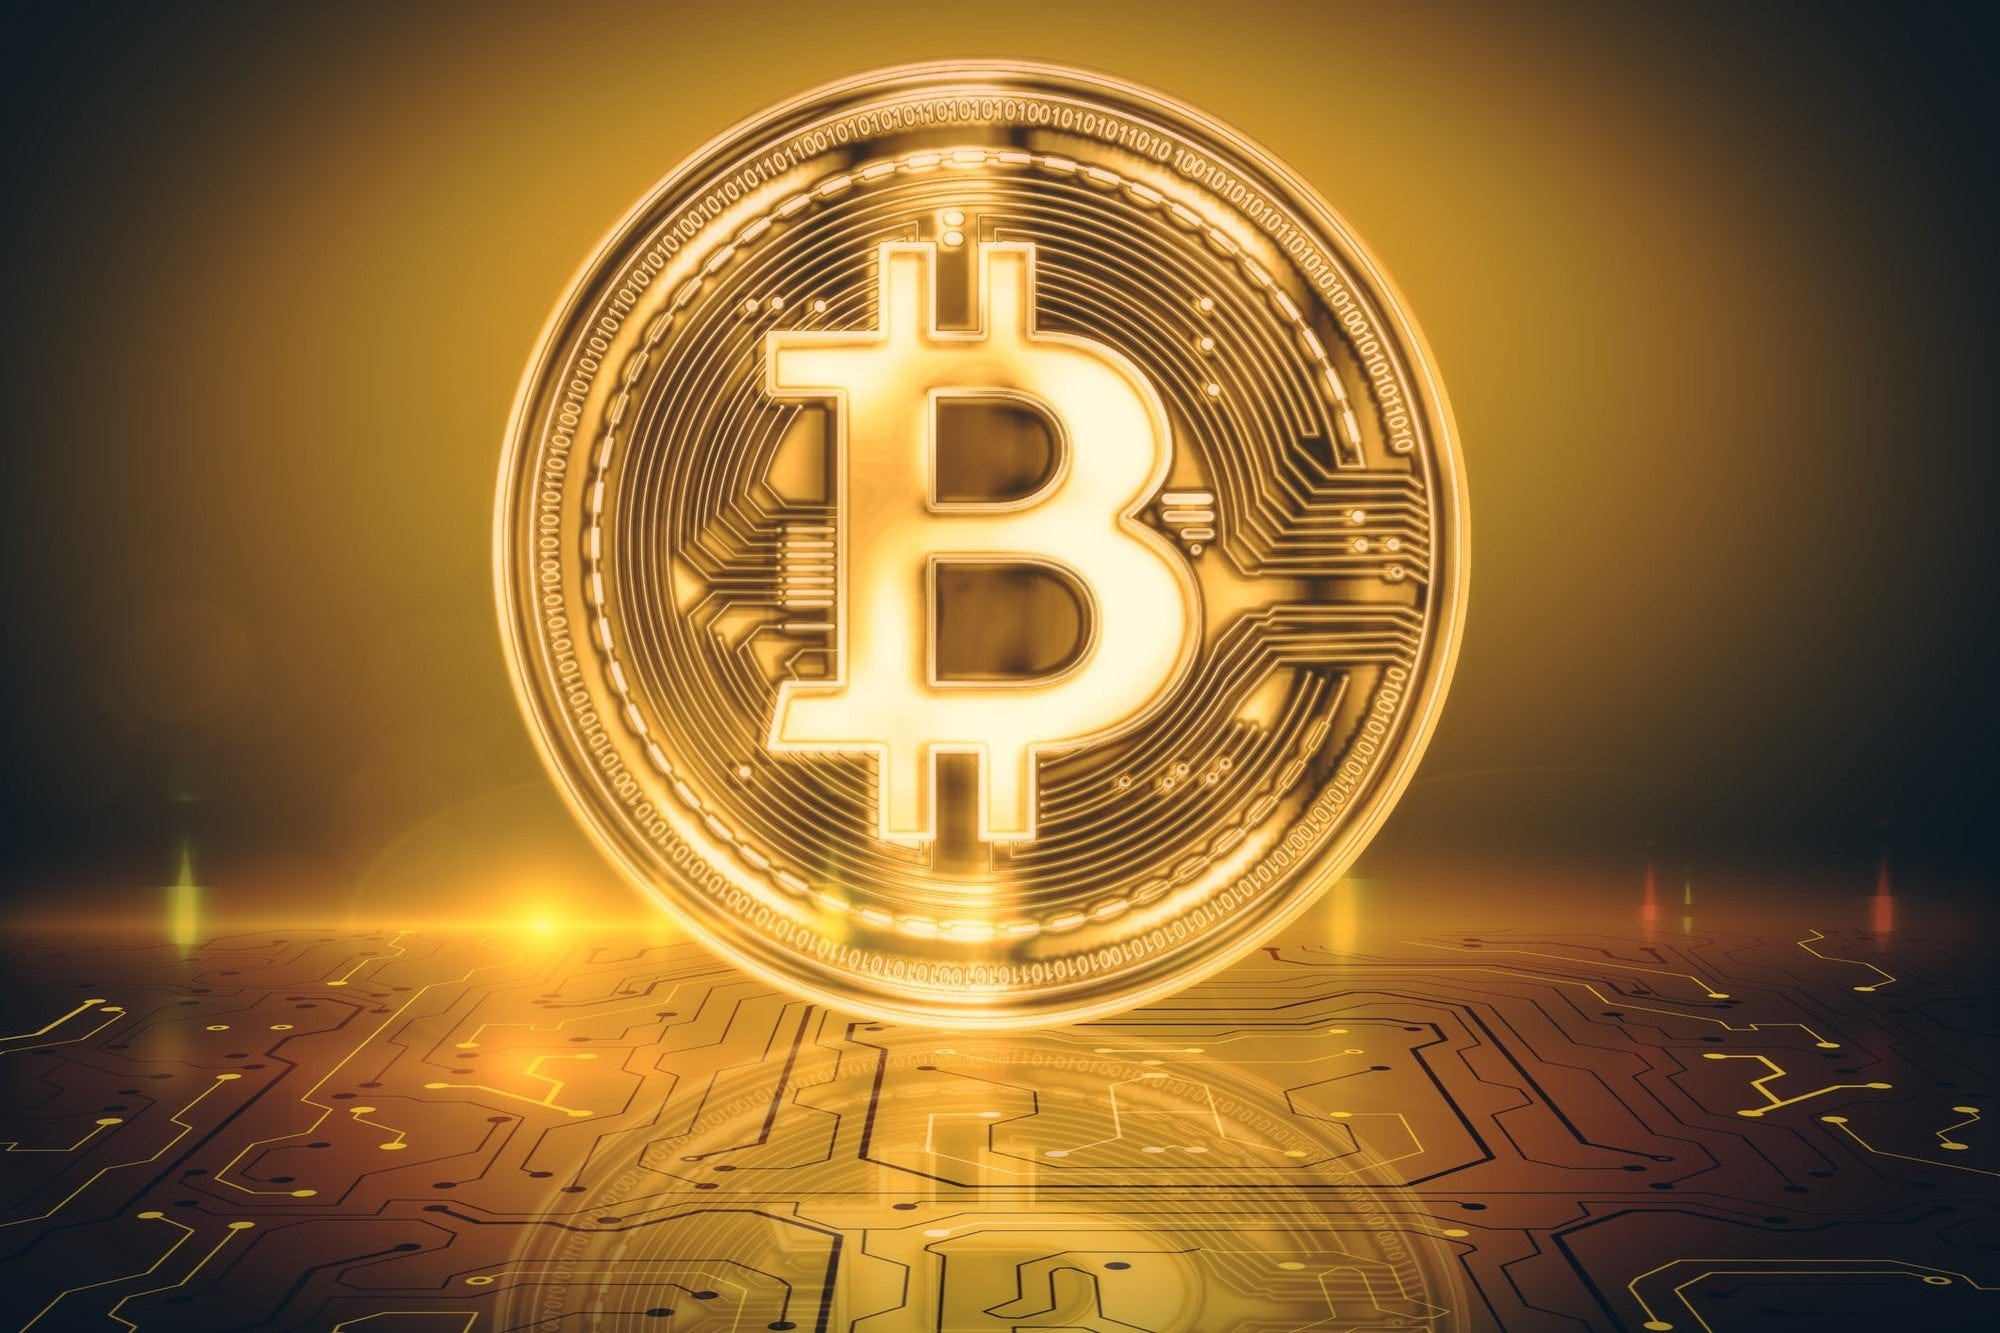
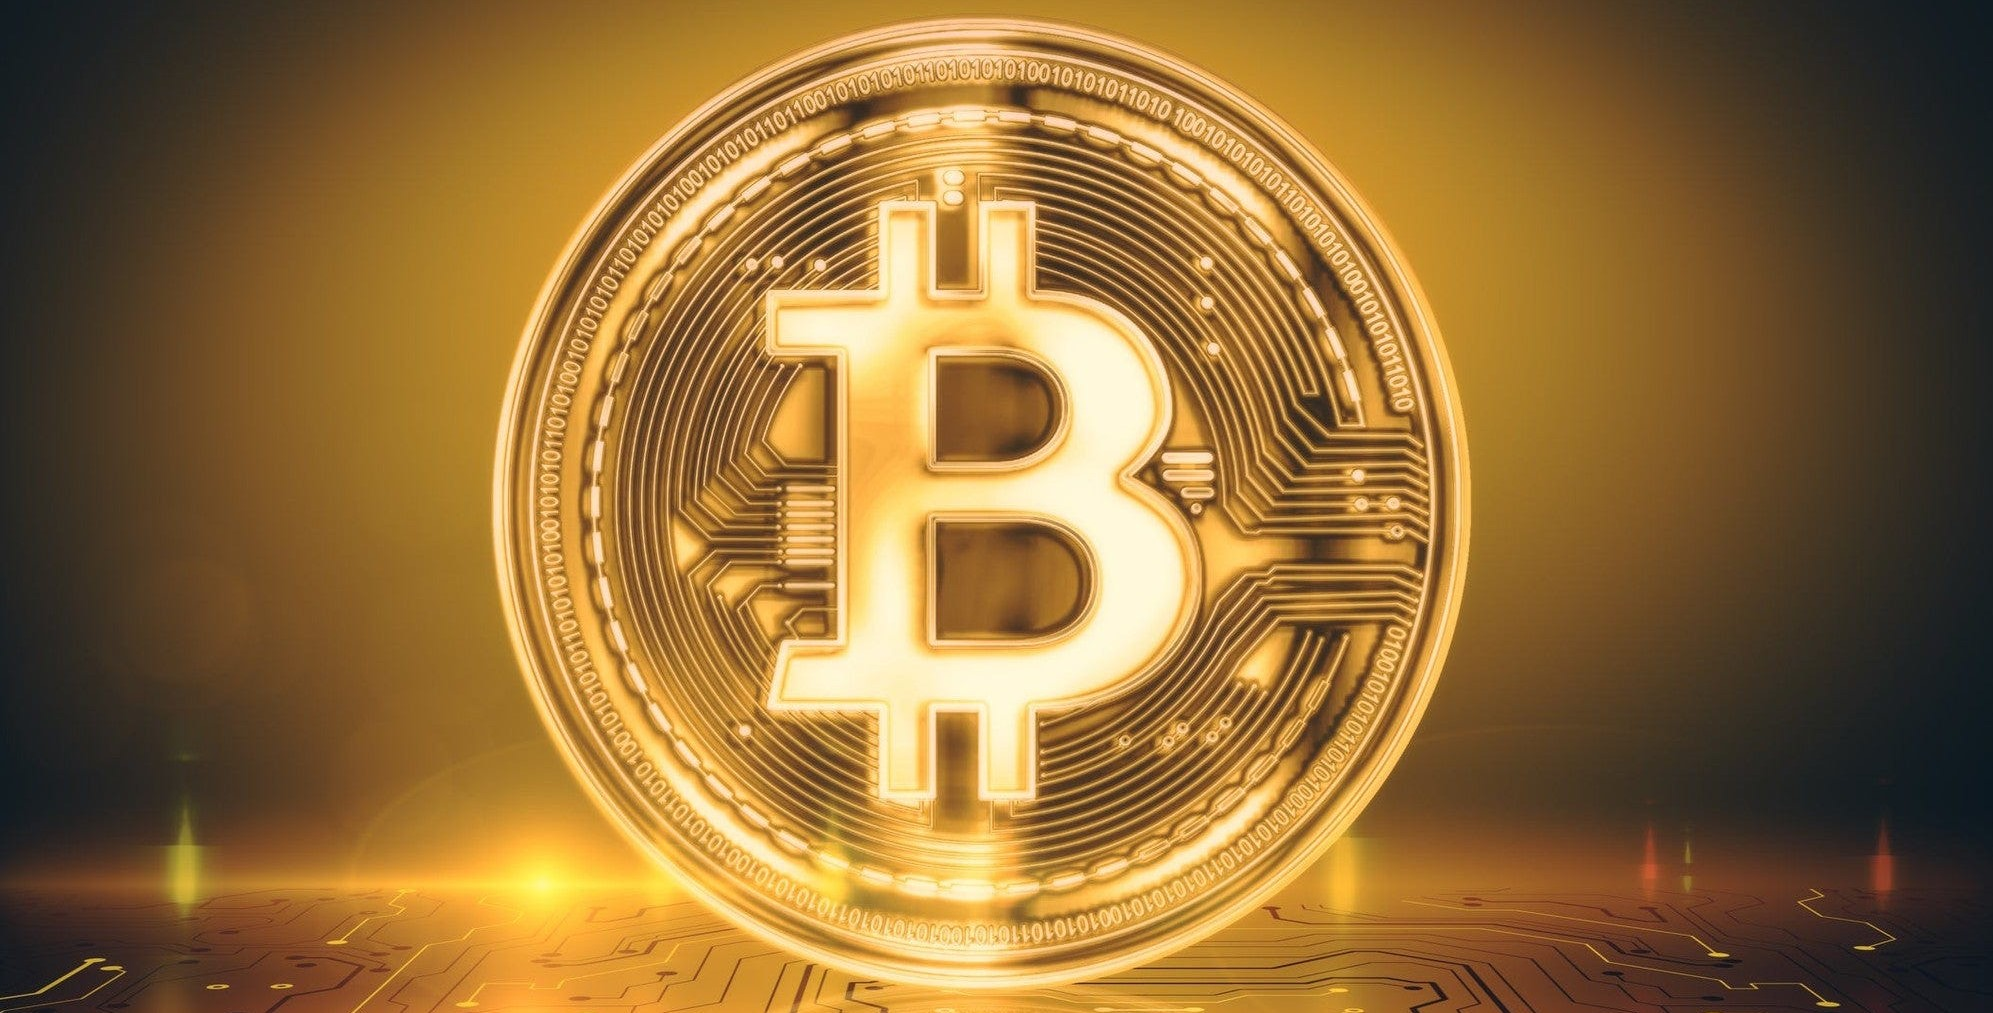
updating btc image and scale

diff --git a/bitcoinanalysis.html b/bitcoinanalysis.html
@@ -67,7 +67,7 @@
             </div>
             <div class="row justify-content-center">
                 <div class="col-lg-10">
-                    <img class = "photo1" src="images/Bitcoin.jpg" alt="Image of CryptoCurrency" width='800' height='450'>
+                    <img class = "photo1" src="images/bitcoin1.jpg" alt="Image of CryptoCurrency" width='800' height='533'>
                 </div>
             </div>
             <br/>
